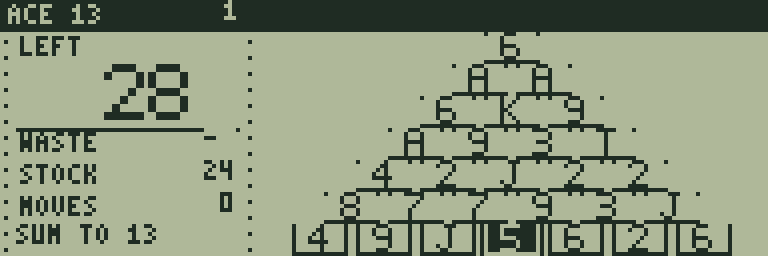
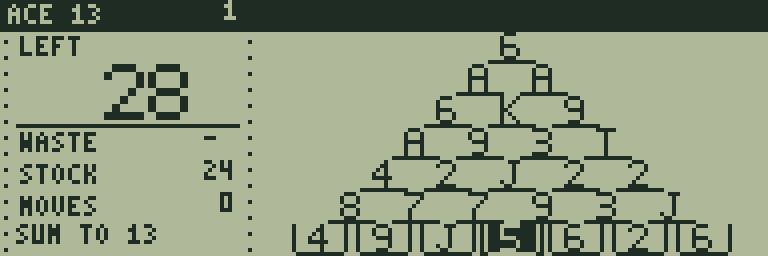
Improve ACE STACK visual clarity

diff --git a/games/ace-stack/generate.py b/games/ace-stack/generate.py
@@ -37,10 +37,11 @@ for stage in range(20):
 sprites=[Bitmap(16,8)]
 for kind in range(3):
  for rank in range(1,14):
-  b=Bitmap(16,8);b.text(' A23456789TJQK'[rank],5,0);b.line(1,7,14,7)
+  # Flat card faces: no disconnected dots above covered cards. Exposed cards
+  # have continuous sides and lightly cut lower corners, leaving ranks intact.
+  b=Bitmap(16,8);b.text(' A23456789TJQK'[rank],5,0);b.line(2,7,13,7)
   if kind:
-   b.line(1,0,1,7);b.line(14,0,14,7)
-  else:b.dot(1,0);b.dot(14,0)
+   b.line(1,0,1,6);b.line(14,0,14,6)
   if kind==2:b.line(3,0,3,6);b.line(12,0,12,6)
   sprites.append(b)
 data=asm_bytes('ace_children',sum(children,[]))+asm_bytes('ace_deals',sum(deals,[]))
